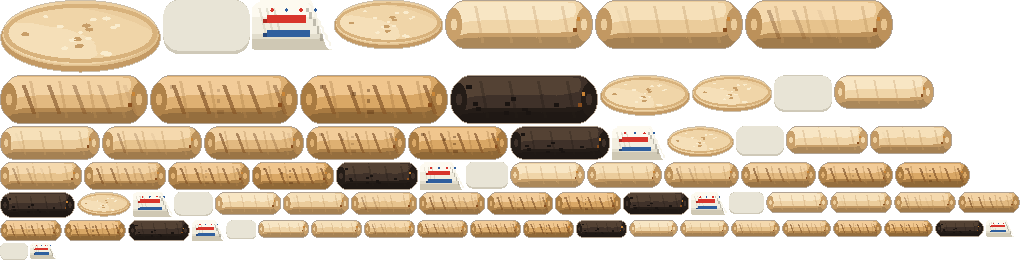
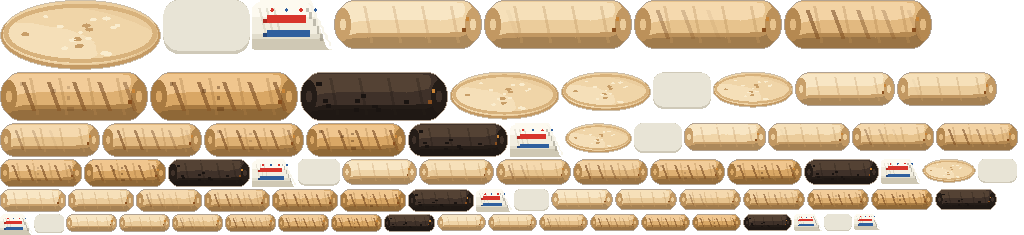
Lavaş tahtaya oturuyor: tek üründe yukarı, temas gölgesi, ince lavaş
1.8 ölçekte açık lavaş hazırlık tahtasının ön kenarına taşıyordu; eski gölge
elipsi lavaşın 1-3 px altına düşüp kenardan sarkıyordu (havada gibi). HD'de:
tek üründe çizim 3.5 px yukarı (f_boardCY/hedef aynı), gölge lavaşa yapışık,
lavaş modeli alttan inceltildi (üst yüzey aynı; dolgu renderları değişmedi).

diff --git a/blender/models/durum_hd.py b/blender/models/durum_hd.py
@@ -79,7 +79,8 @@ def durum_acik():
     K = 0.5
     rx, ry = 22.0, 9.0
     Ma = px.flat("LavasAlt", "#c49a64")
-    I.yatay_elips("alt", 0, 0.6, rx, 0.8, Ma, K, ry_ekran=ry, seg=56)
+    # alt kat: lavas ince (eskiden toplam ~2.1 px kalinlik tabak gibi duruyordu)
+    I.yatay_elips("alt", 0, -0.05, rx, 0.6, Ma, K, ry_ekran=ry, seg=56)
     Ml = cel("LavasUst", ["#e2c290", "#ebcd9e", "#f0d5a8", "#f5dfb8"], [0, .3, .55, .88], noise=0.06, noise_scale=7)
     I.yatay_elips("ust", 0, -0.6, rx - 0.3, 1.0, Ml, K, ry_ekran=ry - 0.3, seg=56, egim=0.02)
     zt = 0.6 - 0.5 + 1.0 + 0.02

diff --git a/BIRLESIK.md b/BIRLESIK.md
@@ -85,6 +85,7 @@ Kullanıcı geri bildirimiyle gelen düzenlemeler (2026-09-23):
 | Ekmek kesik/yarım | Açık dürüm sarma animasyonu için alttan kırpılıyordu; sarma başlamamışken HD'de kırpma yok |
 | Döner keserken Dayı anlamsız hareket ediyor | Döneri oyuncu keser; Dayı kesimde bekleme pozunda durur, şişe bakar |
 | Dolgu katman katman, karışmıyor | `dolgu_hd.py`: 125 birleşim tek 3B sahnede; yoğurt/sos yığının üstüne dökülür |
+| Lavaş tahtada durmuyor, havada gibi | Tek üründe (1.8) lavaş tahtanın ön kenarına taşıyordu ve eski gölge elipsi aşağı düşüp kenardan sarkıyordu: çizim 3.5 px yukarı (hedef noktası aynı), HD'de lavaşa yapışık temas gölgesi, lavaş alttan inceltildi (2.1 → 1.35 px) |
 
 Önizleme: `python blender/tezgah2_onizleme.py` (parçaları oyundaki yerlerine dizer).
 
